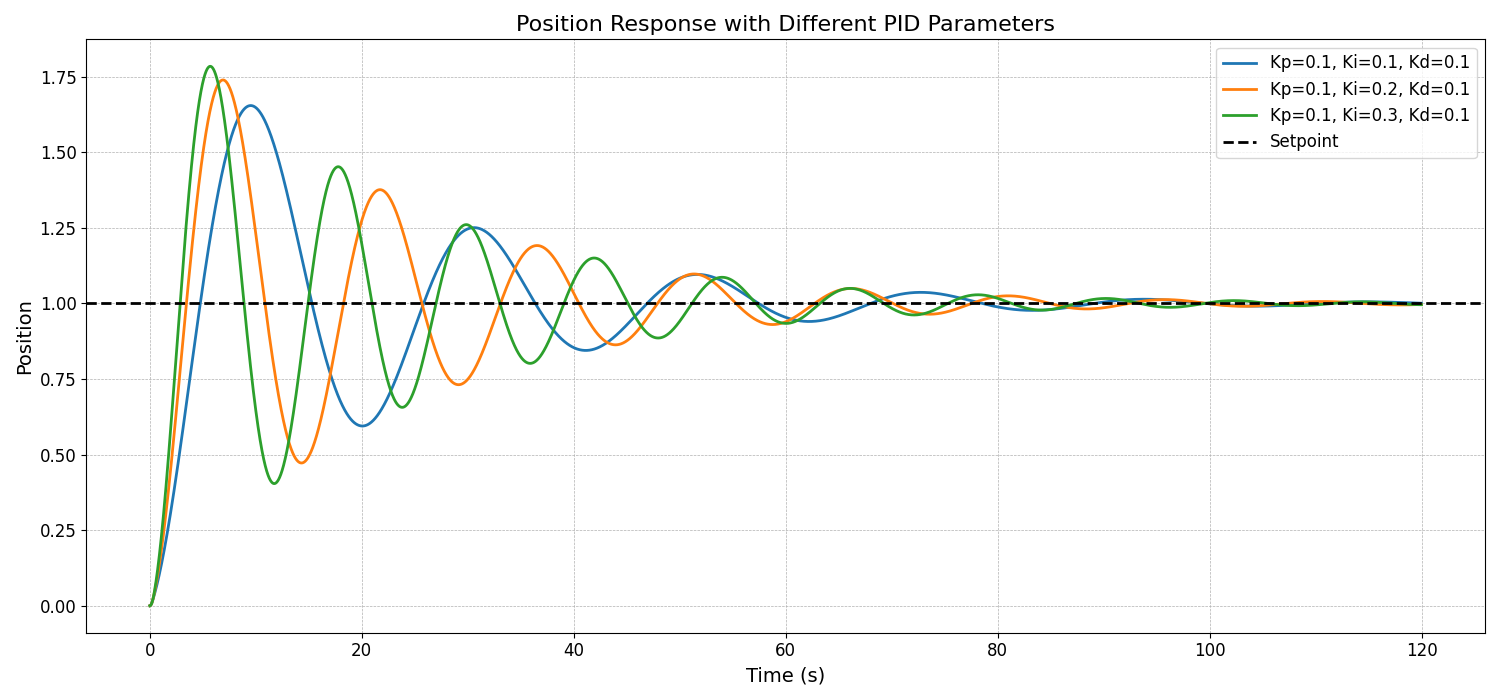
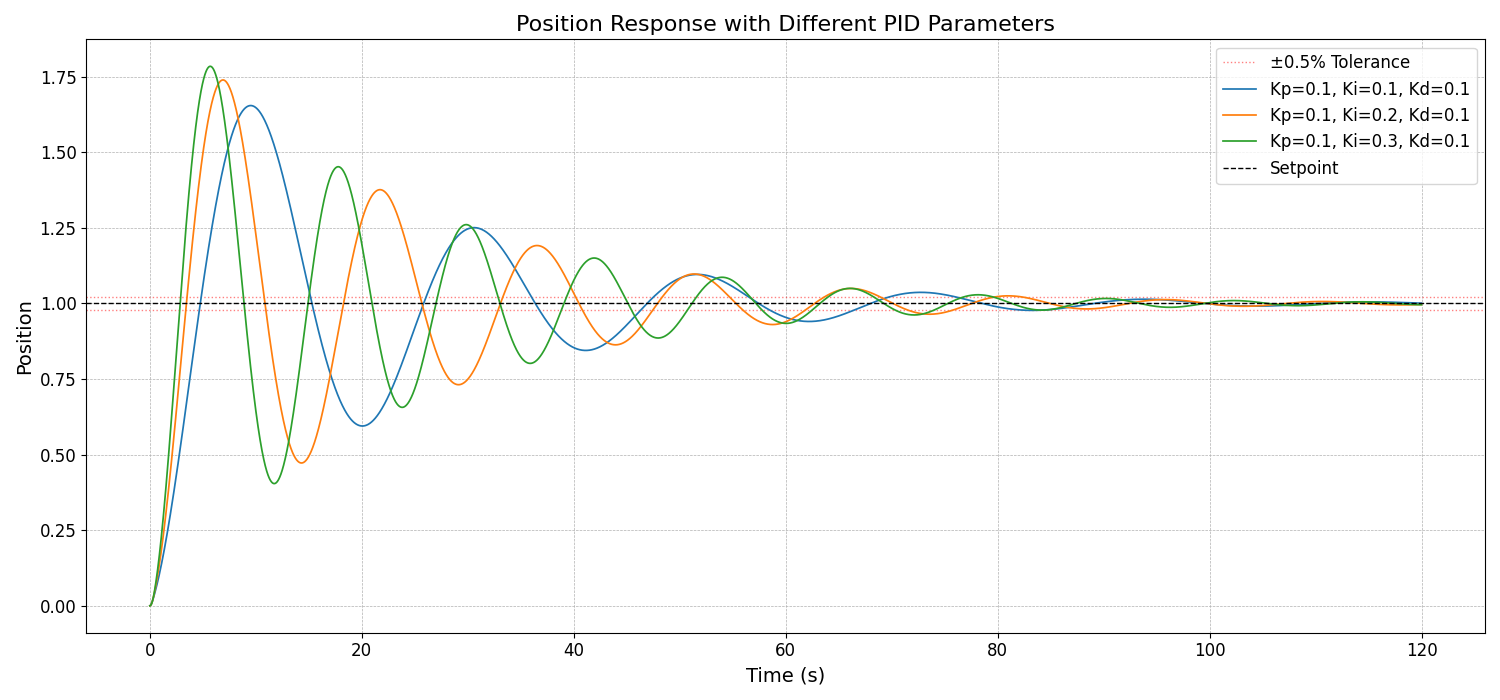
Improved readability of graphs

diff --git a/RobotSimIRLConditions.py b/RobotSimIRLConditions.py
@@ -93,16 +93,16 @@ pid_configs = [
 plt.figure(figsize=(15, 7))
 
 # Plot tolerance bands
-plt.axhline(y=1.02, color='red', linestyle=':', linewidth=1, alpha=0.5, label='±2% Tolerance')
+plt.axhline(y=1.02, color='red', linestyle=':', linewidth=1, alpha=0.5, label='±0.5% Tolerance')
 plt.axhline(y=0.98, color='red', linestyle=':', linewidth=1, alpha=0.5)
 
 for config in pid_configs:
     t, position, speed, errors = simulate_pid(**config)
     label = "Kp=" + str(config['kp']) + ", Ki=" + str(config['ki']) + ", Kd=" + str(config['kd'])
-    plt.plot(t, position, label=label, linewidth=2)
+    plt.plot(t, position, label=label, linewidth=1.25)
 
 # Add setpoint line
-plt.axhline(y=1.0, color='black', linestyle='--', linewidth=2, label='Setpoint')
+plt.axhline(y=1.0, color='black', linestyle='--', linewidth=1, label='Setpoint')
 
 plt.title('Position Response with Different PID Parameters', fontsize=16)
 plt.xlabel('Time (s)', fontsize=14)
@@ -112,7 +112,7 @@ plt.yticks(fontsize=12)
 plt.grid(True, which='both', linestyle='--', linewidth=0.5)
 plt.legend(fontsize=12)
 plt.tight_layout()
-plt.savefig('pid_tuning_comparison_with_settling.png')
+plt.savefig('pid_tuning_comparison.png')
 plt.close()
 
 # Calculate performance metrics including settling time
@@ -134,5 +134,5 @@ for config in pid_configs:
 
 results_df = pd.DataFrame(results)
 print("\
-PID Tuning Performance Metrics (including Settling Time):")
+PID Tuning Performance Metrics:")
 print(results_df)
